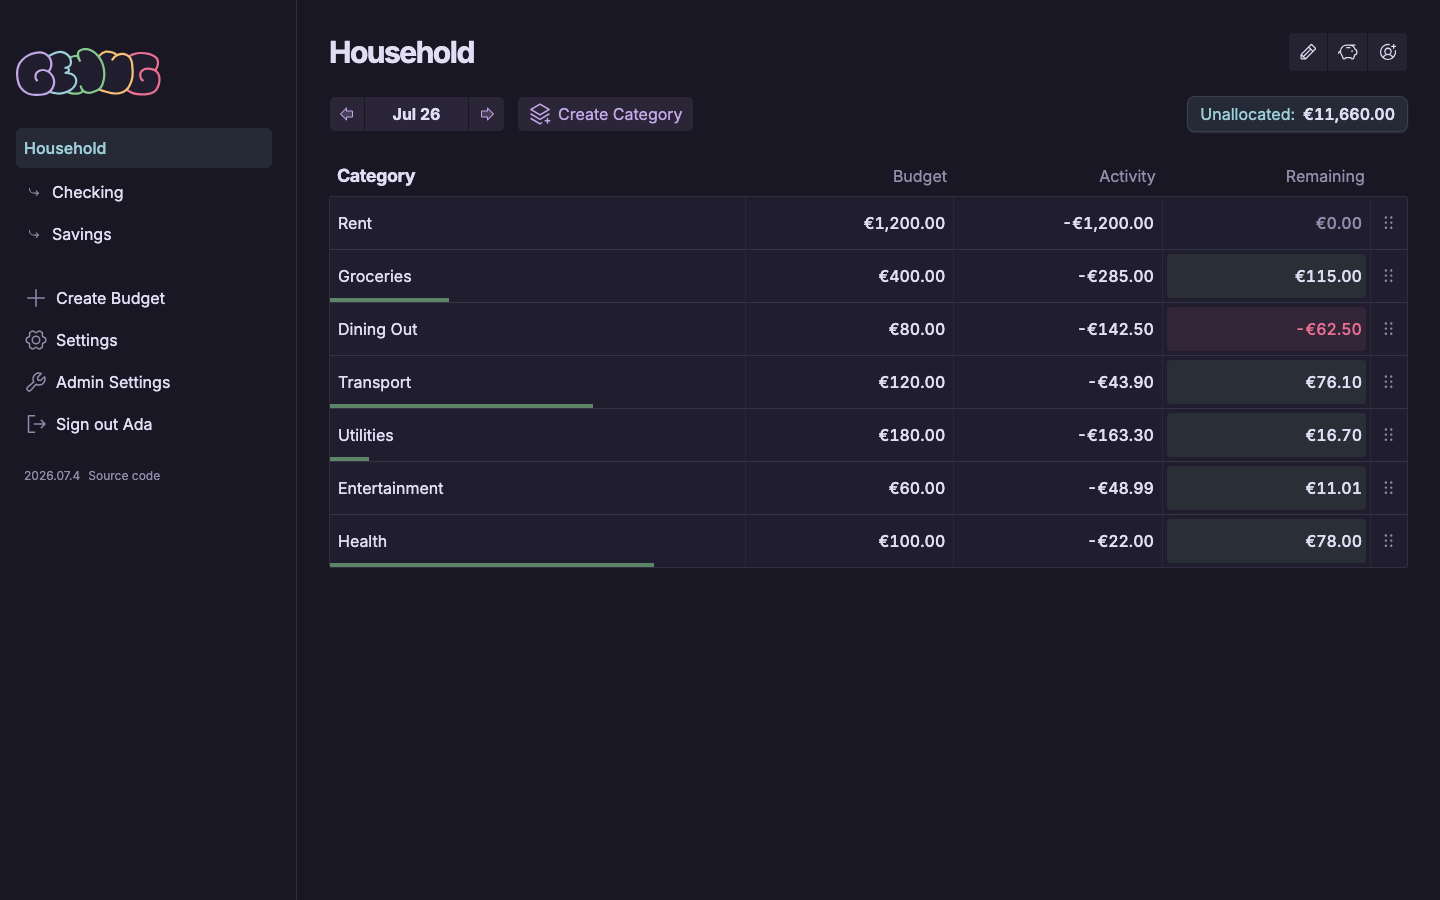
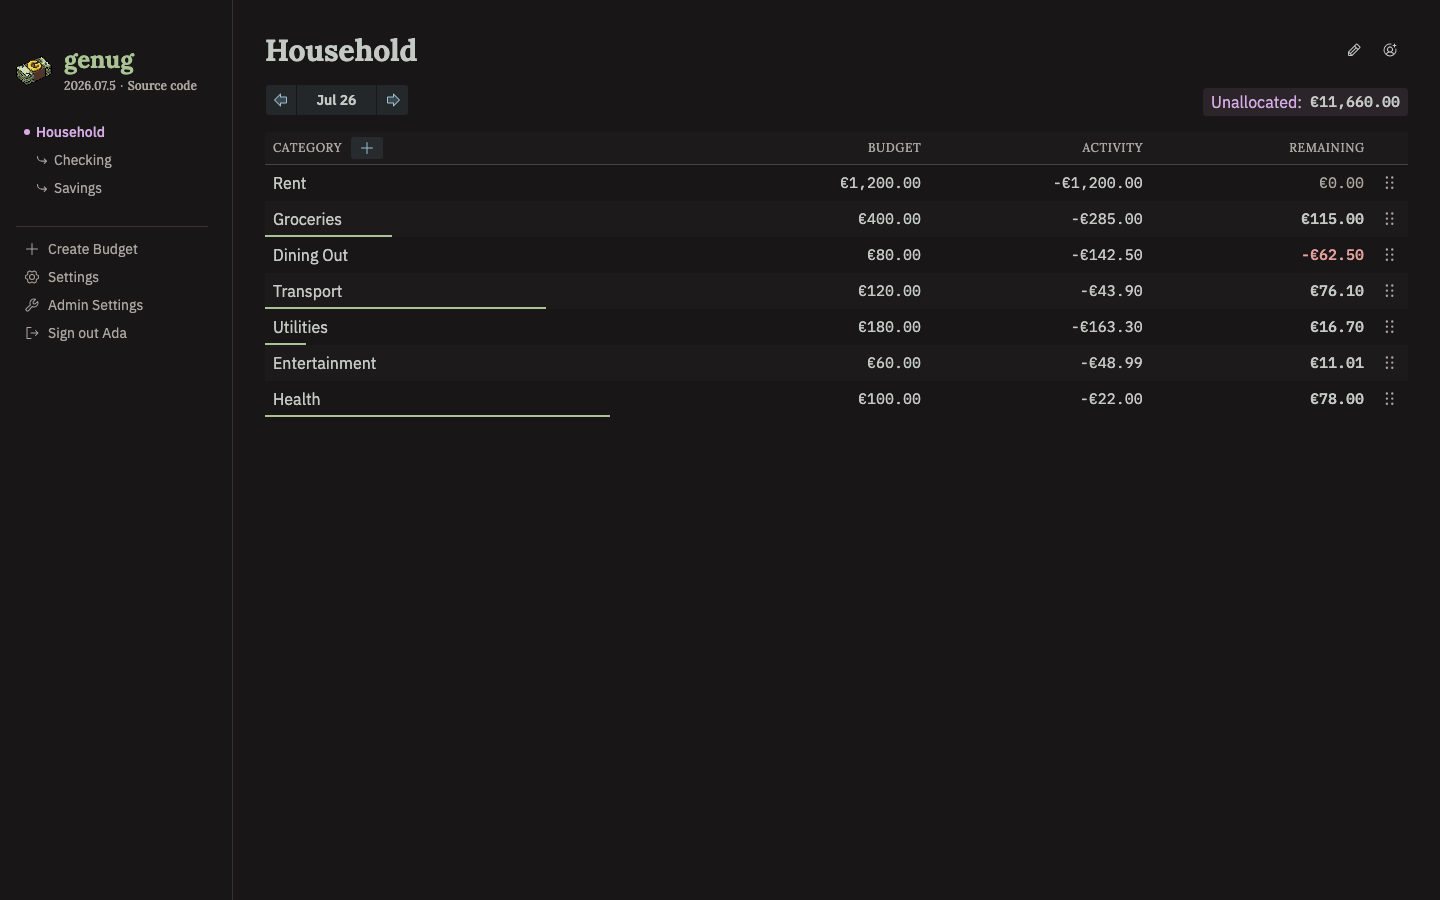
docs: follow-up sweep over post-audit fixes; refresh screenshots
Small re-run of the #316 sweeps over the commits that landed after each
audit's cutoff (#339–#365), which the original sweeps never covered:

- Comment discipline: strip #NNN provenance from the two a11y.spec.ts
  comments added by #357/#359 (the comment sweeps ran before them).
- Design-language: codify the mobile nav FAB's shadow-md as overlay-tier
  in design-language.md — #342 deliberately moved it to the overlay
  shadow step, but the doc still read as if P2 forbade it.
- Clean sweeps, no changes needed: dead code, a11y (token contrast
  recomputed both modes, ARIA wiring, suites green), responsive touch
  density, i18n parity.

Also regenerates all five doc screenshots (npm run screenshots) — they
predate the restyle fix wave.

diff --git a/tests/playwright/a11y.spec.ts b/tests/playwright/a11y.spec.ts
@@ -102,7 +102,7 @@ for (const theme of THEMES) {
 		test.beforeEach(async ({ page }) => setTheme(page, theme));
 
 		// axe cannot judge text over `/10` tint chips (it reports them "incomplete"),
-		// so the accent tokens are gated by direct token math (#354): accent text must
+		// so the accent tokens are gated by direct token math: accent text must
 		// keep AA on `surface-high` and inside its own `/10` chip over either surface —
 		// the default button variant in dialogs is the live worst case.
 		test('Accent tokens keep AA on elevated surfaces and tint chips', async ({ page, pages }) => {
@@ -260,7 +260,7 @@ for (const theme of THEMES) {
 }
 
 /**
- * ARIA structure & control wiring (#356) is mode-independent, so these states
+ * ARIA structure & control wiring is mode-independent, so these states
  * scan once outside the theme loop. They cover what the themed flows above
  * never reach: the mobile table markup, the stats definition lists, and the
  * expanded combobox / date-picker popups.

diff --git a/docs/dev/design-language.md b/docs/dev/design-language.md
@@ -102,6 +102,10 @@ Dialog, alert-dialog(-form), drawer, responsive-modal, popover
   `rounded-xs bg-surface p-0 shadow-sm ring-1 ring-muted/30` with
   anchor-matched width — a cell opening on the page's own surface token
   with the flattest shadow, not a detached `bg-surface-high` layer.
+- **The mobile nav FAB floats at overlay tier.** The fixed drawer trigger in
+  `navigation-mobile` hovers detached above the page, so its inverted
+  `bg-foreground` chip wears the single overlay shadow step (`shadow-md`) —
+  it is not an in-page surface under P2.
 - **Scrim is a veil, not a dimmer:** `bg-background/75` +
   `supports-backdrop-filter:backdrop-blur-xs` on dialog/alert-dialog/drawer
   overlays — the page washes out into the theme's own background token
